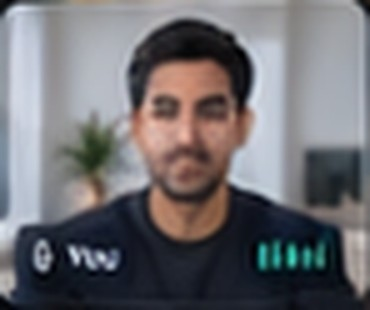
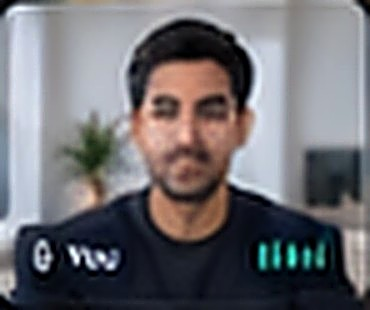
Experience: human video-call scene; unified home headings and contrast

diff --git a/public/css/home-motion.css b/public/css/home-motion.css
@@ -24,3 +24,25 @@
   }
 }
 @media (max-width: 900px) { .mh-adaptive-cards::before { display: none; } }
+
+/* ── One heading system across the home page ─────────────────────────────────
+   Same family, weight, size, tracking and spacing for every section heading and
+   eyebrow, and eyebrow colours that pass WCAG AA (4.5:1) on both light and dark
+   sections. Home page only (this stylesheet is loaded by the home layout). */
+section .mh-adaptive-headline, section.mh-xp h2, section.mh-sc h2, section.mh-audience .mh-section-title, section.mh-pricing .mh-section-title {
+  font-family: 'Plus Jakarta Sans', system-ui, -apple-system, 'Segoe UI', Roboto, sans-serif;
+  font-size: clamp(28px, 3.4vw, 40px); font-weight: 800; letter-spacing: -.025em; line-height: 1.12;
+}
+section.mh-perspectives .mh-section-title { font-family: 'Plus Jakarta Sans', system-ui, sans-serif; font-size: clamp(24px, 2.6vw, 30px); font-weight: 800; letter-spacing: -.02em; line-height: 1.15; }
+section.mh-adaptive .mh-eyebrow, section.mh-pricing .mh-eyebrow, section.mh-perspectives .mh-eyebrow { color: #1D4ED8; }
+section.mh-audience .mh-eyebrow { color: #7FB2FF; }
+section.mh-adaptive .mh-eyebrow, section.mh-audience .mh-eyebrow, section.mh-pricing .mh-eyebrow, section.mh-perspectives .mh-eyebrow { font-size: 12px; letter-spacing: .12em; }
+.mh-adaptive .mh-section-center, .mh-audience .mh-section-center, .mh-pricing .mh-section-center { max-width: 760px; margin-left: auto; margin-right: auto; }
+.mh-audience .mh-section-sub, .mh-pricing .mh-section-sub, .mh-xp-sub { font-size: 16.5px; line-height: 1.55; }
+/* same vertical rhythm for every home section */
+.mh-adaptive, .mh-audience, .mh-pricing { padding-top: 88px; padding-bottom: 88px; }
+@media (max-width: 1024px) { .mh-adaptive, .mh-audience, .mh-pricing { padding-top: 72px; padding-bottom: 72px; } }
+@media (max-width: 640px) { .mh-adaptive, .mh-audience, .mh-pricing { padding-top: 56px; padding-bottom: 56px; } }
+/* Pricing sets its heading through #pricing selectors, so match with equal-or-higher specificity. */
+section#pricing .mh-section-title { font-family: 'Plus Jakarta Sans', system-ui, -apple-system, 'Segoe UI', Roboto, sans-serif; font-size: clamp(28px, 3.4vw, 40px); font-weight: 800; letter-spacing: -.025em; line-height: 1.12; }
+section#pricing .mh-eyebrow { color: #1D4ED8 !important; font-size: 12px; letter-spacing: .12em; }
